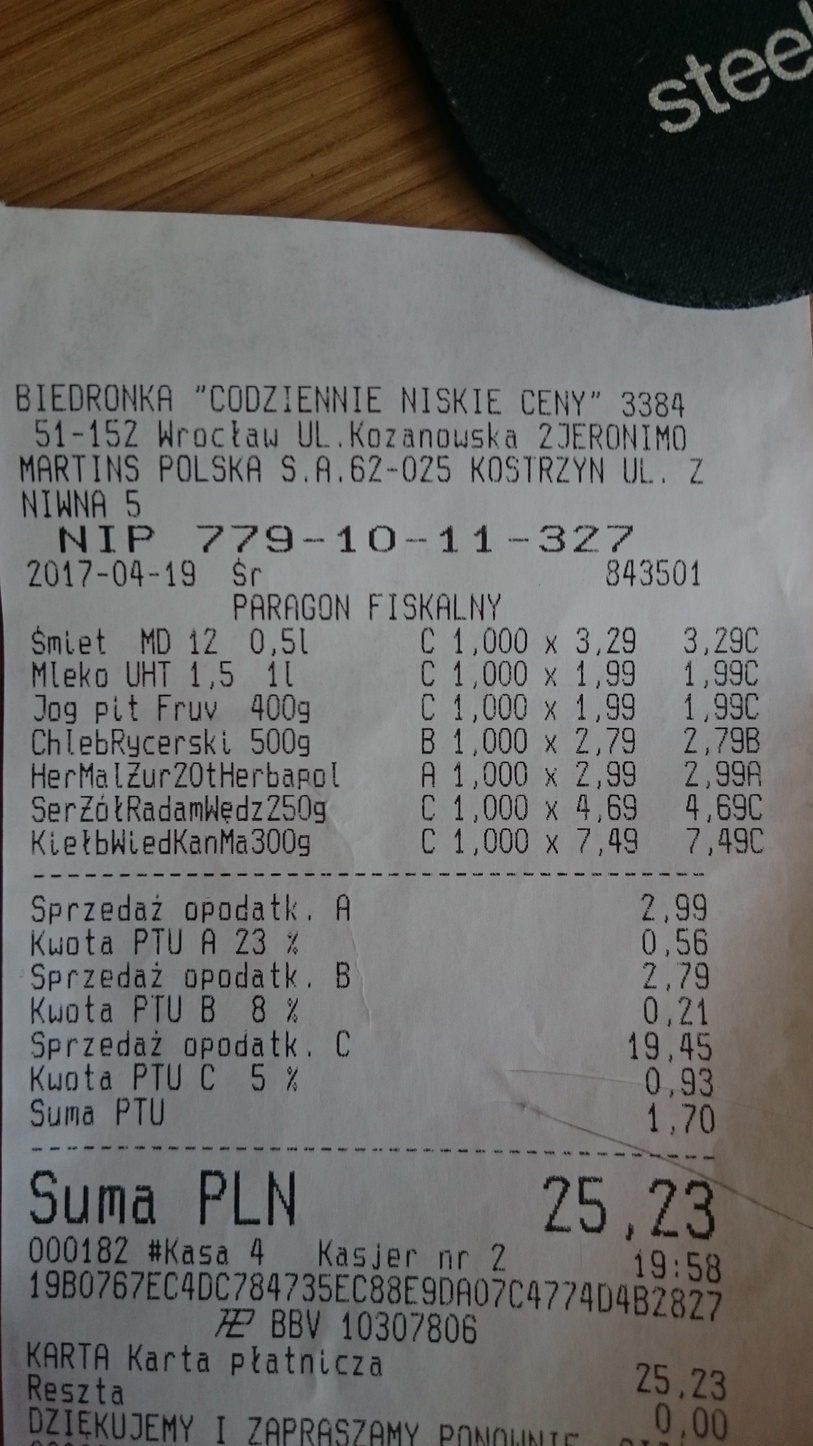
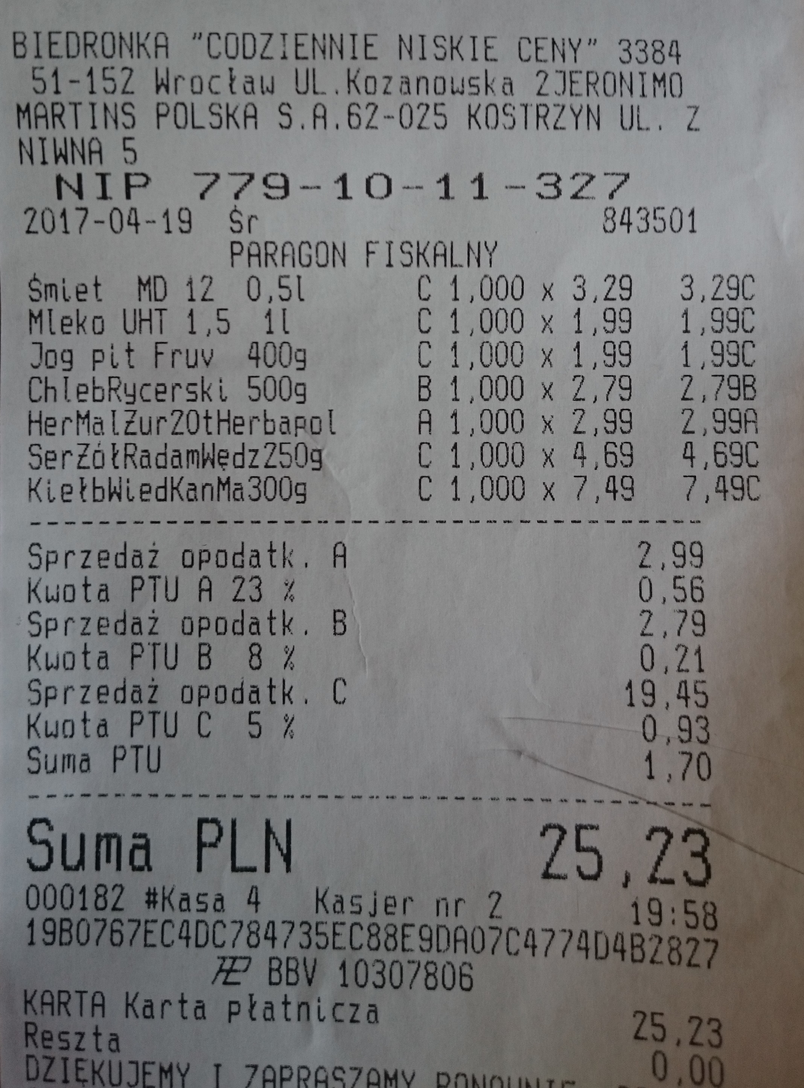
add histeq

diff --git a/ocr.m b/ocr.m
@@ -1,7 +1,7 @@
 clc, close all, clear all
 
 % Read image
-image=imread('DSC_3.JPG');
+image=imread('DSC_1.JPG');
 
 % Resize image
 image=imresize(image, 0.3);
@@ -21,13 +21,30 @@ title('Original image');
 if size(image,3)==3 %RGB image
     image=changeToGray(image);
 end
-figure(2);
+figure;
 imshow(image);
 title('Image gray scale');
 
 % use median filter
-image = medianFilter(image, 3);
-figure(3);
+%image = medianFilter(image, 3);
+%figure(3);
+%imshow(image);
+%title('image with median filter');
+
+% use adaptive histogram equalisation
+% image=adapthisteq_own(image);
+image=adapthisteq(image,'ClipLimit',0.003);
+figure
+imshow(image)
+title('image with histogram equalisation');
+
+% contrast stretching
+image = imadjust(image,[0.15 0.48],[]);
+figure;
 imshow(image);
-title('image with median filter');
+title('contrast stretching');
+
+
+
+
 

diff --git a/ocrTest.m b/ocrTest.m
@@ -1,7 +1,7 @@
 clc, close all, clear all
 
 % Read image
-image=imread('DSC_3.JPG');
+image=imread('DSC_1.JPG');
 
 % Resize image
 image=imresize(image, 0.3);
@@ -40,12 +40,14 @@ title('image with median filter');
 
 % use adaptive histogram equalisation
 image = adapthisteq(image,'ClipLimit',0.003);
+%image=adapthisteq_own(image);
 figure(4);
 imshow(image);
 title('image with histogram equalisation');
 
 % contrast stretching
-image = imadjust(image);
+% image = imadjust(image);
+image = imadjust(image,[0.15 0.48],[]);
 figure(5);
 imshow(image);
 title('contrast stretching');

diff --git a/functions/adapthisteq_own.m b/functions/adapthisteq_own.m
@@ -1,0 +1,16 @@
+function image_out = adapthisteq_own( image_in )
+[M,N]=size(image_in);
+histgray=jmhist(image_in);
+py=histgray/(M*N);
+Py=cumsum(py);
+Hy=256*Py;
+for m= 1:M
+    for n= 1:N
+        image_in(m,n)=uint8(Hy(image_in(m,n)+1));
+    end
+end
+
+image_out=image_in;
+
+end
+

diff --git a/functions/jmhist.m b/functions/jmhist.m
@@ -1,0 +1,13 @@
+function [ h ] = jmhist( x )
+%JMHIST Summary of this function goes here
+%   Detailed explanation goes here
+[M,N]=size(x);
+h=ones(1,255);
+for m=1:M
+    for n=1:N
+        h(x(m,n)+1)=h(x(m,n)+1)+1;
+    end
+end
+
+end
+
